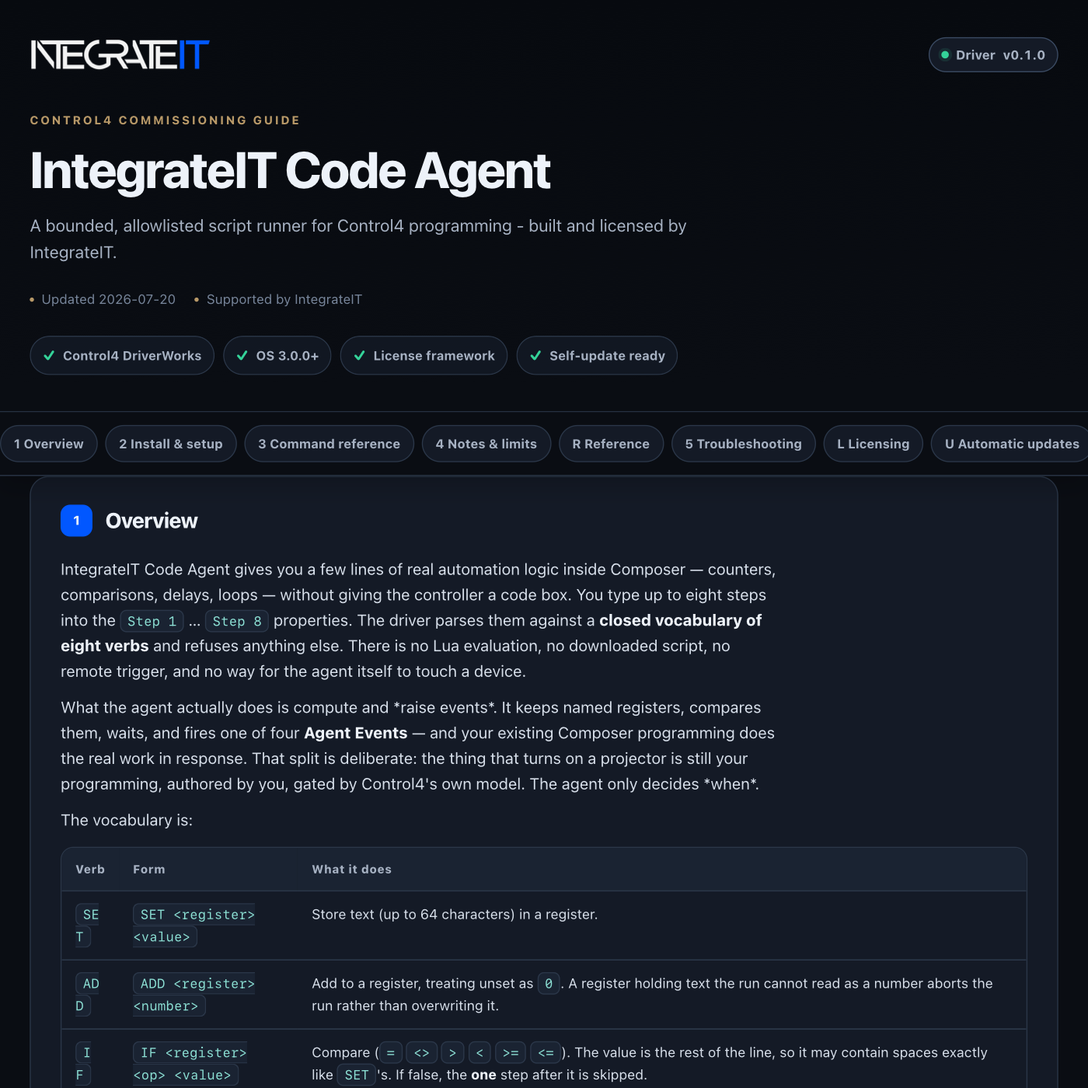
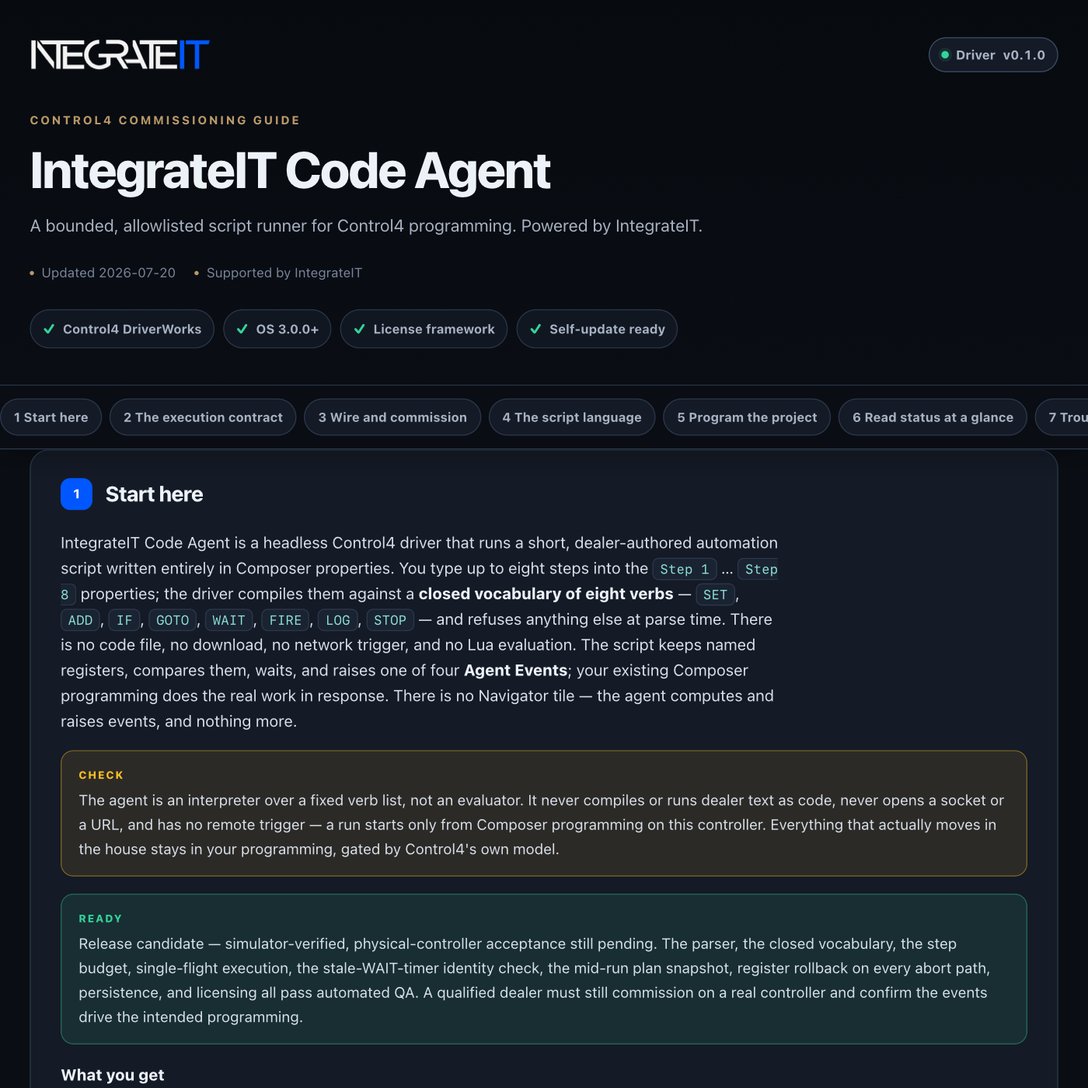
control4: publish driver channel (integrateit_code_agent 0.1.1)

Changed region(s): [[0.0, 0.3686, 1.0, 1.0], [0.0307, 0.215, 0.6143, 0.3379], [0.4914, 0.1843, 0.645, 0.215]]

diff --git a/control4/integrateit_code_agent/documentation.html b/control4/integrateit_code_agent/documentation.html
@@ -179,13 +179,13 @@ td code{white-space:normal}
     <div class="wrap">
       <div class="brandbar">
[1 lines of base64/hex data omitted]
-        <span class="version"><span class="word">Driver</span> v0.1.0</span>
+        <span class="version"><span class="word">Driver</span> v0.1.1</span>
       </div>
       <p class="eyebrow">Control4 commissioning guide</p>
       <h1>IntegrateIT Code Agent</h1>
-      <p class="sub">A bounded, allowlisted script runner for Control4 programming - built and licensed by IntegrateIT.</p>
+      <p class="sub">A bounded, allowlisted script runner for Control4 programming. Powered by IntegrateIT.</p>
       <div class="meta">
-        <span>Updated 2026-07-20</span>
+        <span>Updated 2026-07-26</span>
         <span>Supported by IntegrateIT</span>
       </div>
       <div class="readiness" aria-label="Driver capabilities">
@@ -198,39 +198,52 @@ td code{white-space:normal}
   </header>
 
   <div class="toc-wrap">
-    <nav class="toc wrap" aria-label="Documentation sections"><a href="#overview">1 Overview</a><a href="#install">2 Install &amp; setup</a><a href="#commands">3 Command reference</a><a href="#notes">4 Notes &amp; limits</a><a href="#reference">R Reference</a><a href="#troubleshooting">5 Troubleshooting</a><a href="#licensing">L Licensing</a><a href="#updates">U Automatic updates</a><a href="#changelog">V Version history</a></nav>
+    <nav class="toc wrap" aria-label="Documentation sections"><a href="#overview">1 Start here</a><a href="#boundary">2 The execution contract</a><a href="#setup">3 Wire and commission</a><a href="#language">4 The script language</a><a href="#programming">5 Program the project</a><a href="#status">6 Read status at a glance</a><a href="#troubleshooting">7 Troubleshoot methodically</a><a href="#trust">8 Ownership, privacy, and licensing</a><a href="#reference">R Reference</a><a href="#licensing">L Licensing</a><a href="#updates">U Automatic updates</a><a href="#changelog">V Version history</a></nav>
   </div>
 
   <main class="wrap">
     <section class="card" id="overview" data-card="overview">
-  <h2><span class="n">1</span> Overview</h2>
-  <p>IntegrateIT Code Agent gives you a few lines of real automation logic inside Composer — counters, comparisons, delays, loops — without giving the controller a code box. You type up to eight steps into the <code>Step 1</code> … <code>Step 8</code> properties. The driver parses them against a <b>closed vocabulary of eight verbs</b> and refuses anything else. There is no Lua evaluation, no downloaded script, no remote trigger, and no way for the agent itself to touch a device.</p>
-  <p>What the agent actually does is compute and *raise events*. It keeps named registers, compares them, waits, and fires one of four <b>Agent Events</b> — and your existing Composer programming does the real work in response. That split is deliberate: the thing that turns on a projector is still your programming, authored by you, gated by Control4's own model. The agent only decides *when*.</p>
-  <p>The vocabulary is:</p>
-  <table>
-    <tr><th>Verb</th><th>Form</th><th>What it does</th></tr>
-    <tr><td><code>SET</code></td><td><code>SET &lt;register&gt; &lt;value&gt;</code></td><td>Store text (up to 64 characters) in a register.</td></tr>
-    <tr><td><code>ADD</code></td><td><code>ADD &lt;register&gt; &lt;number&gt;</code></td><td>Add to a register, treating unset as <code>0</code>. A register holding text the run cannot read as a number aborts the run rather than overwriting it.</td></tr>
-    <tr><td><code>IF</code></td><td><code>IF &lt;register&gt; &lt;op&gt; &lt;value&gt;</code></td><td>Compare (<code>=</code> <code>&lt;&gt;</code> <code>&gt;</code> <code>&lt;</code> <code>&gt;=</code> <code>&lt;=</code>). The value is the rest of the line, so it may contain spaces exactly like <code>SET</code>'s. If false, the <b>one</b> step after it is skipped.</td></tr>
-    <tr><td><code>GOTO</code></td><td><code>GOTO &lt;step number&gt;</code></td><td>Jump to another step, by its Step-property number.</td></tr>
-    <tr><td><code>WAIT</code></td><td><code>WAIT &lt;seconds&gt;</code></td><td>Suspend the run, then resume where it left off.</td></tr>
-    <tr><td><code>FIRE</code></td><td><code>FIRE &lt;1-4&gt;</code></td><td>Raise *Agent Event 1…4* for programming to react to.</td></tr>
-    <tr><td><code>LOG</code></td><td><code>LOG &lt;text&gt;</code></td><td>Write a line to the audit log and the Lua output window.</td></tr>
-    <tr><td><code>STOP</code></td><td><code>STOP</code></td><td>End the run successfully.</td></tr>
-  </table>
-  <p>Each verb must be a whole word with a space after it — <code>FIRE1</code> is refused, <code>FIRE 1</code> is the step. Blank lines and lines beginning with <code>#</code> are comments. Numbers compare as numbers when both sides are numeric, otherwise as text; an unset register reads as empty, so a comparison against it is simply false.</p>
+  <h2><span class="n">1</span> Start here</h2>
+  <p>IntegrateIT Code Agent is a headless Control4 driver that runs a short, dealer-authored automation script written entirely in Composer properties. You type up to eight steps into the <code>Step 1</code> … <code>Step 8</code> properties; the driver compiles them against a <b>closed vocabulary of eight verbs</b> — <code>SET</code>, <code>ADD</code>, <code>IF</code>, <code>GOTO</code>, <code>WAIT</code>, <code>FIRE</code>, <code>LOG</code>, <code>STOP</code> — and refuses anything else at parse time. There is no code file, no download, no network trigger, and no Lua evaluation. The script keeps named registers, compares them, waits, and raises one of four <b>Agent Events</b>; your existing Composer programming does the real work in response. There is no Navigator tile — the agent computes and raises events, and nothing more.</p>
+  <div class="note warn">The agent is an interpreter over a fixed verb list, not an evaluator. It never compiles or runs dealer text as code, never opens a socket or a URL, and has no remote trigger — a run starts only from Composer programming on this controller. Everything that actually moves in the house stays in your programming, gated by Control4's own model.</div>
+  <div class="note good">Release candidate — simulator-verified, physical-controller acceptance still pending. The parser, the closed vocabulary, the step budget, single-flight execution, the stale-WAIT-timer identity check, the mid-run plan snapshot, register rollback on every abort path, persistence, and licensing all pass automated QA. A qualified dealer must still commission on a real controller and confirm the events drive the intended programming.</div>
+  <p><b>What you get</b></p>
+  <ul>
+    <li>Eight Composer-authored steps over a closed verb vocabulary — no code files, no downloads</li>
+    <li>Named registers with <code>SET</code>, arithmetic with <code>ADD</code>, and six-operator comparison with <code>IF</code></li>
+    <li><code>GOTO</code> loops made safe by a hard per-run step budget that always terminates</li>
+    <li>Four <code>FIRE</code>-able Agent Events plus Run Started / Completed / Aborted / Script Rejected for programming</li>
+    <li>Fail-closed parsing: one bad step refuses the whole script, so a half-valid program never runs its valid prefix</li>
+    <li>Register rollback on every abort — manual, script edit, budget exhaustion, a bad <code>ADD</code>, or a restart mid-run</li>
+    <li>A rolling audit of the most recent steps and the run outcome in <code>AGENT_LOG</code></li>
+    <li>MAC-locked IntegrateIT licensing, Lenient or Strict</li>
+  </ul>
 </section>
 
-<section class="card" id="install" data-card="install">
-  <h2><span class="n">2</span> Install &amp; setup</h2>
+<section class="card" id="boundary" data-card="boundary">
+  <h2><span class="n">2</span> The execution contract</h2>
+  <p>This driver's whole promise is what it cannot do, so it states it plainly:</p>
+  <ul>
+    <li><b>No code execution.</b> Dealer text is tokenized and matched against the fixed verb list; it is never compiled, <code>load</code>ed, or evaluated. An unrecognized verb is a parse rejection, not a pass-through — a Lua expression like <code>os.execute("id")</code> fails the allowlist exactly like any typo.</li>
+    <li><b>No blast radius.</b> The agent cannot drive a device, open a socket, fetch a URL, or touch the filesystem. Its only outputs are its own registers, its own read-only properties, four Agent Events, and six programming variables. Anything that MOVES is your programming reacting to those events.</li>
+    <li><b>No remote surface.</b> There is no listener, URL handler, or poll. A run begins only when Composer programming — or the Actions tab — calls <b>Run Script</b> on this controller.</li>
+    <li><b>Fail-closed, all-or-nothing.</b> One bad step invalidates the entire script, including the valid steps above it, and <code>Script Status</code> names the first refused step. A run requested against an invalid script finds no plan at all and raises <b>Script Rejected</b>.</li>
+    <li><b>Bounded.</b> <code>GOTO</code> makes loops expressible, so every run carries a hard step budget (<code>Max Steps Per Run</code>, default 64). Skipped steps spend fuel too, so <code>IF</code> + <code>GOTO</code> cannot spin for free. When the budget hits zero the run aborts and rolls back — a controller cannot be wedged by a bad script.</li>
+    <li><b>Reversible.</b> Registers are snapshotted at run start; every abort restores that snapshot, so an aborted run leaves no half-applied state. A completed run keeps its writes; an aborted one does not. Registers update live as each step runs, so a value read mid-run is provisional until the run reaches <code>STOP</code> or the end of the list.</li>
+  </ul>
+</section>
+
+<section class="card" id="setup" data-card="setup">
+  <h2><span class="n">3</span> Wire and commission</h2>
   <ol class="steps">
-    <li>Add the driver to a room. It is headless — no Navigator tile, no connections to bind.</li>
-    <li>Type your steps into <code>Step 1</code> … <code>Step 8</code>, one verb per line, in order.</li>
-    <li>Watch <code>Script Status</code>. It reads <b>Valid - N step(s)</b> when the script compiles, or <b>Invalid - step N: …</b> naming the first step it refused. <b>An invalid script does not partly run.</b> The whole thing is off until it parses.</li>
-    <li>Set <code>Max Steps Per Run</code> — the hard budget for one run. This is what makes a <code>GOTO</code> loop safe: when the budget is spent, the run aborts and rolls back. The default of 64 is generous for an eight-line script; lower it if you are looping deliberately.</li>
-    <li>Set <code>Max Wait (sec)</code> to the longest <code>WAIT</code> you want anyone to be able to author. Scripts asking for longer are rejected when they are typed, not when they run.</li>
-    <li>In Programming, call <b>Run Script</b> on this driver wherever the logic should start, and react to <b>Agent Event 1…4</b>.</li>
-    <li>Optionally enter a <code>License Key</code> (see Licensing) — the driver runs in Lenient mode without one.</li>
+    <li>Add <b>IntegrateIT Code Agent</b> to a room. It is headless — no Navigator tile, no connections to bind.</li>
+    <li>Type your steps into <code>Step 1</code> … <code>Step 8</code>, one verb per line, in order — the verb grammar is <b>The script language</b> immediately below.</li>
+    <li>Watch <code>Script Status</code>. It reads <b>Valid - N step(s)</b> when the script compiles, or <b>Invalid - step N: …</b> naming the first step it refused. An invalid script does not partly run.</li>
+    <li>Set <code>Max Steps Per Run</code> — the hard budget for one run (1–256, default 64). Lower it when you loop deliberately; the default is generous for an eight-line script.</li>
+    <li>Set <code>Max Wait (sec)</code> (1–3600, default 300) to the longest <code>WAIT</code> anyone may author. A longer <code>WAIT</code> is refused when it is typed, not when it runs. Tightening this later re-validates the current script.</li>
+    <li>Choose <code>Persist Registers</code> (register values survive a Director restart only when Yes) and <code>On Script Edit</code> (whether editing a Step mid-run aborts the run or lets it finish against the plan it started with).</li>
+    <li>Optionally enter a <code>License Key</code> — the driver runs in Lenient mode without one (see Licensing).</li>
+    <li>In Programming, call <b>Run Script</b> where the logic should start, and react to <b>Agent Event 1…4</b>. Run it once and watch <code>Run State</code>, <code>Registers</code>, and your event programming react — that is the proof it works.</li>
   </ol>
   <p>A worked example — hold the path lights for two minutes after the last person leaves, but only in the evening:</p>
   <table>
@@ -241,40 +254,89 @@ td code{white-space:normal}
     <tr><td>4</td><td><code>FIRE 2</code></td><td>Programming reacts: all off.</td></tr>
     <tr><td>5</td><td><code>STOP</code></td><td>Done.</td></tr>
   </table>
-  <p><code>Evening</code> gets set by your programming through the <b>Set Register</b> command (<code>REGISTER</code> = <code>Evening</code>, <code>VALUE</code> = <code>1</code>).</p>
+  <p>Your programming sets <code>Evening</code> through the <b>Set Register</b> command (<code>REGISTER</code> = <code>Evening</code>, <code>VALUE</code> = <code>1</code>) before it calls Run Script.</p>
 </section>
 
-<section class="card" id="commands" data-card="commands">
-  <h2><span class="n">3</span> Command reference</h2>
+<section class="card" id="language" data-card="language">
+  <h2><span class="n">4</span> The script language</h2>
+  <p>A step is one whole-word verb, a space, then its arguments. <code>FIRE1</code> is refused; <code>FIRE 1</code> is the step — a token welded to a verb is rejected under its whole name, never quietly split. Blank lines and lines beginning with <code>#</code> are comments: skipped, never errors.</p>
   <table>
-    <tr><th>Action / command</th><th>What it does</th></tr>
-    <tr><td>Run Script (<code>RUN_SCRIPT</code>)</td><td>Run the compiled script from step 1. Refused if a run is already in flight or the script is invalid.</td></tr>
-    <tr><td>Abort Run (<code>ABORT_RUN</code>)</td><td>Stop the run, cancel a pending <code>WAIT</code>, and restore every register to its pre-run value.</td></tr>
-    <tr><td>Set Register (<code>SET_REGISTER</code>)</td><td>Set one register from programming. Params: <code>REGISTER</code>, <code>VALUE</code>. Refused while a run is in flight.</td></tr>
-    <tr><td>Validate Script (<code>VALIDATE_SCRIPT</code>)</td><td>Re-parse and print the verdict. Changes nothing else.</td></tr>
-    <tr><td>Reset Registers (<code>RESET_REGISTERS</code>)</td><td>Empty the register store. Refused while a run is in flight.</td></tr>
-    <tr><td>Print Configuration (<code>PRINT_CONFIG</code>)</td><td>Print the script verdict, budget, registers, and vocabulary to the Lua output window.</td></tr>
+    <tr><th>Verb</th><th>Form</th><th>What it does</th></tr>
+    <tr><td><code>SET</code></td><td><code>SET &lt;register&gt; &lt;value&gt;</code></td><td>Store text in a register. The value is the rest of the line, up to 64 printable characters.</td></tr>
+    <tr><td><code>ADD</code></td><td><code>ADD &lt;register&gt; &lt;number&gt;</code></td><td>Add a finite number to a register. An unset register reads as <code>0</code>; a register holding text the sum cannot parse aborts the run rather than overwriting it.</td></tr>
+    <tr><td><code>IF</code></td><td><code>IF &lt;register&gt; &lt;op&gt; &lt;value&gt;</code></td><td>Compare with <code>=</code> <code>&lt;&gt;</code> <code>&gt;</code> <code>&lt;</code> <code>&gt;=</code> <code>&lt;=</code>. The value is the rest of the line, exactly like <code>SET</code>. When the test is false, the <b>one</b> step after it is skipped.</td></tr>
+    <tr><td><code>GOTO</code></td><td><code>GOTO &lt;1-8&gt;</code></td><td>Jump to another step by its Step-property number. A <code>GOTO</code> into an empty step is refused at parse time.</td></tr>
+    <tr><td><code>WAIT</code></td><td><code>WAIT &lt;seconds&gt;</code></td><td>Suspend the run for a whole number of seconds, 1 to <code>Max Wait</code> (default 300), then resume where it left off.</td></tr>
+    <tr><td><code>FIRE</code></td><td><code>FIRE &lt;1-4&gt;</code></td><td>Raise Agent Event 1 through 4 for programming to react to.</td></tr>
+    <tr><td><code>LOG</code></td><td><code>LOG &lt;text&gt;</code></td><td>Write 1 to 120 printable characters to the audit log and the Lua output window.</td></tr>
+    <tr><td><code>STOP</code></td><td><code>STOP</code></td><td>End the run successfully. Takes no argument.</td></tr>
   </table>
-  <p><b>Events:</b> *Run Started*, *Run Completed*, *Run Aborted*, *Script Rejected*, *Agent Event 1…4*. <b>Variables:</b> <code>AGENT_RUN_STATE</code>, <code>AGENT_RUNNING</code>, <code>AGENT_STEPS_RUN</code>, <code>AGENT_REGISTERS</code>, <code>AGENT_LOG</code>, <code>AGENT_LAST_ERROR</code>.</p>
+  <p>Register names are identifiers — a letter followed by letters, digits, or underscores, up to 16 characters, with no dots, brackets, or spaces. Comparisons run as numbers when both sides parse as numbers, otherwise as text; an unset register reads as empty text, so a comparison against it is always defined and never crashes the run. Note that <code>ADD</code> reads an unset register as <code>0</code> while <code>IF</code> reads it as empty — the two verbs read "unset" differently on purpose. A non-finite <code>ADD</code> amount (<code>1e400</code>) is refused at parse time, and a sum that accumulates to infinity aborts the run rather than parking a poisoned value.</p>
 </section>
 
-<section class="card" id="notes" data-card="notes">
-  <h2><span class="n">4</span> Notes &amp; limits</h2>
+<section class="card" id="programming" data-card="programming">
+  <h2><span class="n">5</span> Program the project</h2>
+  <p>The Actions tab exposes <b>Validate Script</b>, <b>Run Script</b>, <b>Abort Run</b>, <b>Reset Registers</b>, and <b>Print Configuration</b>. From programming you also get <b>Run Script</b>, <b>Abort Run</b>, and <b>Set Register</b> (params <code>REGISTER</code>, <code>VALUE</code>; refused while a run is in flight). Hang your logic off the events:</p>
   <ul>
-    <li><b>Nothing runs unless everything parses.</b> One bad step invalidates the whole script — including the valid steps above it. This is on purpose: a half-executed automation is worse than one that plainly refuses.</li>
-    <li><b>Every run is bounded.</b> <code>Max Steps Per Run</code> is spent on skipped steps too, so <code>IF</code> + <code>GOTO</code> cannot spin for free. Exhausting it aborts the run and rolls the registers back.</li>
-    <li><b>One run at a time.</b> A second Run Script while one is in flight is refused and logged; it does not queue.</li>
-    <li><b>Editing a step mid-run</b> is governed by <code>On Script Edit</code>. *Abort Running Script* (the default) stops and rolls back. *Finish Current Run* lets the in-flight run complete against the plan it started with — your edit takes effect on the next run, never on the one already going.</li>
-    <li><b>Abort rolls back; completion does not.</b> Registers written by a run that reached <code>STOP</code> (or ran off the end) are kept. Registers written by a run that was aborted — manually, by an edit, by the budget, or by an <code>ADD</code> it could not compute — are restored to their pre-run values.</li>
-    <li><b>A run never survives a Director restart.</b> The controller comes back Idle. Register *values* come back only if <code>Persist Registers</code> is Yes; with it set to No the cache is actively cleared, so turning it on later cannot resurrect stale values.</li>
-    <li>**A restart *mid-run* rolls back too.** If the controller dies while a run is in flight, that run gets the same treatment as any other abort: it comes back holding the registers as they were *before* the run, not half of it. <code>Last Run</code> and <code>AGENT_LAST_ERROR</code> say the run was interrupted.</li>
-    <li><b><code>ADD</code> is numeric only.</b> It reads an unset register as <code>0</code>, but a register holding text it cannot read as a number aborts the run instead of silently replacing that text with a number. A sum that overflows to infinity aborts for the same reason.</li>
-    <li><b>The agent cannot drive anything itself.</b> No device control, no sockets, no URLs, no filesystem, no Lua evaluation. If you need it to move something, react to its events in programming.</li>
-    <li><code>AGENT_LOG</code> holds a rolling window of the most recent steps, not a permanent history. Turn on <code>Debug Mode → Print</code> to see every step live in the Lua output window.</li>
+    <li><b>When Agent Event 1 fires → dim the path lights.</b> A <code>FIRE 1</code> step is the driver-to-project hand-off; author the actual device control here.</li>
+    <li><b>When Run Aborted fires → notify or re-arm.</b> The run hit its budget, a bad <code>ADD</code>, a manual abort, or a mid-run edit; the registers are already back to their pre-run values.</li>
+    <li><b>Before Run Script → Set Register <code>Evening</code> = <code>1</code>.</b> Seed a register from project state, then start the run so its <code>IF</code> reads real conditions.</li>
   </ul>
+  <table>
+    <tr><th>Event</th><th>Fires when</th></tr>
+    <tr><td>Run Started</td><td>A run began</td></tr>
+    <tr><td>Run Completed</td><td>The script reached <code>STOP</code> or ran off the end of the list</td></tr>
+    <tr><td>Run Aborted</td><td>The run was aborted (manual, edit, budget, or a bad <code>ADD</code>) and registers rolled back</td></tr>
+    <tr><td>Script Rejected</td><td>A run was requested while the script does not parse; nothing executed</td></tr>
+    <tr><td>Agent Event 1…4</td><td>A <code>FIRE 1</code>…<code>FIRE 4</code> step ran</td></tr>
+  </table>
+  <table>
+    <tr><th>Variable</th><th>Type</th><th>Meaning</th></tr>
+    <tr><td><code>AGENT_RUN_STATE</code></td><td>STRING</td><td>Idle, Running, Waiting, Completed, Aborted, or Rejected</td></tr>
+    <tr><td><code>AGENT_RUNNING</code></td><td>BOOL</td><td>True while Running or Waiting</td></tr>
+    <tr><td><code>AGENT_STEPS_RUN</code></td><td>NUMBER</td><td>Steps the last run advanced through — an <code>IF</code>-skipped step counts, a comment does not</td></tr>
+    <tr><td><code>AGENT_REGISTERS</code></td><td>STRING</td><td>Current register values, in name order</td></tr>
+    <tr><td><code>AGENT_LOG</code></td><td>STRING</td><td>Rolling audit of the most recent steps and the run outcome</td></tr>
+    <tr><td><code>AGENT_LAST_ERROR</code></td><td>STRING</td><td>The reason for the last rejection or abort, or empty</td></tr>
+  </table>
+</section>
+
+<section class="card" id="status" data-card="status">
+  <h2><span class="n">6</span> Read status at a glance</h2>
+  <table>
+    <tr><th>Property</th><th>Healthy result</th><th>What it tells you</th></tr>
+    <tr><td><code>Script Status</code></td><td><code>Valid - N step(s)</code></td><td><code>Invalid - step N: …</code> names the first refused step; <code>No script</code> means every Step is blank</td></tr>
+    <tr><td><code>Run State</code></td><td><code>Idle</code> between runs</td><td>Running / Waiting during a run; Completed, Aborted, or Rejected after</td></tr>
+    <tr><td><code>Last Run</code></td><td>Outcome, step count, timestamp</td><td>An <code>Aborted …</code> line carries the reason; after a mid-run restart it reads interrupted</td></tr>
+    <tr><td><code>Registers</code></td><td>The names and values you set</td><td>Empty after a rollback, a reset, or a boot without persistence</td></tr>
+  </table>
+  <p><code>AGENT_RUNNING</code> is the variable to gate automation on — it is true only while a run is Running or Waiting. Only a completed run keeps its register writes, so treat any value read during a run as provisional until Run Completed fires. <b>Print Configuration</b> writes the script verdict, budget, WAIT cap, edit policy, registers, and vocabulary to the Lua output window; it never runs the script and never prints the license key.</p>
+</section>
+
+<section class="card" id="troubleshooting" data-card="troubleshooting">
+  <h2><span class="n">7</span> Troubleshoot methodically</h2>
+  <table>
+    <tr><th>Symptom</th><th>Likely cause</th><th>Fix</th></tr>
+    <tr><td>Nothing responds to Run Script</td><td>Invalid script, a run already in flight, or Strict + unlicensed</td><td>Read <code>Script Status</code>, <code>Run State</code>, and <code>License Status</code>; a refused run also writes the reason to <code>Status</code></td></tr>
+    <tr><td><code>Script Status</code> says Invalid</td><td>A verb, argument, or <code>GOTO</code> target the parser refused</td><td>Read the message — it names the step and the reason; the script recompiles as you type</td></tr>
+    <tr><td>A <code>GOTO</code> script aborts every time</td><td>The loop is longer than <code>Max Steps Per Run</code></td><td>Raise the budget, or add an <code>IF</code> that reaches a <code>STOP</code></td></tr>
+    <tr><td>A valid script went Invalid on its own</td><td><code>Max Wait (sec)</code> was lowered below a <code>WAIT</code> in the script</td><td>Raise the cap or shorten the <code>WAIT</code>; the bound is enforced at parse time</td></tr>
+    <tr><td>A script edit did not take effect</td><td><code>On Script Edit</code> is *Finish Current Run* and a run is in flight</td><td>Wait for it, or Abort Run, then run again</td></tr>
+    <tr><td>Registers reverted unexpectedly</td><td>The run aborted, so it rolled back</td><td>Read <code>Last Run</code> and <code>AGENT_LAST_ERROR</code> for which abort it was</td></tr>
+    <tr><td>Registers empty after a reboot</td><td><code>Persist Registers</code> is No, or a run was interrupted mid-flight</td><td>Set it to Yes to keep values across a restart; a restart mid-run always rolls back</td></tr>
+    <tr><td><code>ADD</code> aborts the run</td><td>The register holds text, or the sum overflowed to infinity</td><td>Use a numeric register, or seed it with <code>SET &lt;reg&gt; 0</code> first</td></tr>
+  </table>
+  <div class="note">Turn on <code>Debug Mode → Print</code> to watch every parse verdict and every executed step live in the Lua output window. Escalate to support@integrateit.tech · (913) 804-7575 with the <code>AGENT_LOG</code> contents.</div>
+</section>
+
+<section class="card" id="trust" data-card="trust">
+  <h2><span class="n">8</span> Ownership, privacy, and licensing</h2>
+  <p>This package is an original IntegrateIT driver. It bundles no other vendor's runtime, source, brand assets, or license. Driver engineering, Control4 integration, documentation, QA, licensing, updates, and support are provided by IntegrateIT.</p>
+  <p>Nothing the agent does leaves the controller. There is no network surface — no socket, no URL, no telemetry — so your script text, register values, and audit log stay on the controller. The only outbound traffic is the shared IntegrateIT license and update services, which use the controller identity, driver slug, version, configured license key, and update channel as documented in the reference below; the license key is never written to the audit log or printed by any diagnostic.</p>
+  <p>Lenient mode allows commissioning without an activated key and keeps <code>License Status</code> visible. Strict mode blocks <b>Run Script</b>, <b>Abort Run</b>, <b>Reset Registers</b>, and <b>Set Register</b> until the Ops Portal has minted and validated a key for this controller; <b>Validate Script</b> and <b>Print Configuration</b> stay available either way, because inspecting a script changes nothing. Installing this package does not itself mint or activate a controller license.</p>
 <section class="card" id="reference" data-card="reference">
   <h2><span class="n">R</span> Reference</h2>
-  <p>Generated from the driver manifest at build time — always matches this build (v0.1.0).</p>
+  <p>Generated from the driver manifest at build time — always matches this build (v0.1.1).</p>
   <h3>Properties</h3>
   <table>
     <tr><th>Property</th><th>Type</th><th>Default</th><th>Description</th></tr>
@@ -345,22 +407,6 @@ td code{white-space:normal}
   </table>
 </section>
 </section>
-
-<section class="card" id="troubleshooting" data-card="troubleshooting">
-  <h2><span class="n">5</span> Troubleshooting</h2>
-  <table>
-    <tr><th>Symptom</th><th>Likely cause</th><th>Fix</th></tr>
-    <tr><td><code>Script Status</code> says Invalid</td><td>A verb, argument, or <code>GOTO</code> target the parser refused</td><td>Read the message — it names the step number and the reason. Fix that step; the script recompiles as you type.</td></tr>
-    <tr><td>Run Script does nothing</td><td>Invalid script, or a run already in flight</td><td>Check <code>Script Status</code> and <code>Run State</code>. A refused run also writes the reason to <code>Status</code>.</td></tr>
-    <tr><td>A <code>GOTO</code> script aborts every time</td><td>The loop is longer than <code>Max Steps Per Run</code></td><td>Raise the budget, or add an <code>IF</code> that reaches a <code>STOP</code>.</td></tr>
-    <tr><td>A script edit did not take effect</td><td><code>On Script Edit</code> is *Finish Current Run* and a run is in flight</td><td>Wait for it, or Abort Run, then run again.</td></tr>
-    <tr><td>A valid script went Invalid on its own</td><td><code>Max Wait (sec)</code> was lowered below a <code>WAIT</code> in the script</td><td>Raise the cap, or shorten the <code>WAIT</code>. Bounds are enforced at parse time.</td></tr>
-    <tr><td>Registers empty after a reboot</td><td><code>Persist Registers</code> is No</td><td>Set it to Yes if the values must survive a Director restart.</td></tr>
-    <tr><td>Registers reverted unexpectedly</td><td>The run was aborted, so it rolled back</td><td>Check <code>Last Run</code> and <code>AGENT_LAST_ERROR</code> for which abort it was.</td></tr>
-    <tr><td>Nothing happens at all</td><td>Strict enforcement + unlicensed</td><td>Check <code>License Status</code>; Lenient mode keeps control enabled without a key.</td></tr>
-  </table>
-  <div class="note">Turn on <code>Debug Mode → Print</code> to watch every parse verdict and every executed step in the Lua output window.</div>
-</section>
 <section class="card" id="licensing" data-card="licensing">
   <h2><span class="n">L</span> Licensing</h2>
   <p>This driver is licensed <b>per controller</b>. Each license key locks to one controller's
@@ -408,7 +454,9 @@ td code{white-space:normal}
     <section class="card" id="changelog" data-card="changelog">
   <h2><span class="n">V</span> Version history</h2>
   <div class="chg">
-    <div class="rel"><b>v0.1.0</b> <span class="pill green">current</span><span class="d">2026-07-20</span>
+    <div class="rel"><b>v0.1.1</b> <span class="pill green">current</span><span class="d">2026-07-26</span>
+      <ul><li>Documentation rebuilt to the IntegrateIT commissioning-guide standard: uniform sections, honest contracts, verified claim-by-claim against the code.</li><li>**Parser: a verb must be a whole word.** `FIRE1` used to split into `FIRE 1` and run. The allowlist claims a closed vocabulary, so a token welded to a verb is now refused under its whole name rather than quietly reinterpreted.</li><li>**Parser: `IF` and `SET` now share one grammar.** `IF` demanded a single-token value while `SET` accepted the rest of the line, so `SET Mode Movie Night` stored a value no `IF` could ever name — writable but permanently untestable.</li><li>**`ADD` no longer destroys a text register.** `tonumber(x) or 0` turned `Mode=Movie` into `Mode=5`. A non-numeric register now aborts the run and rolls back, which is what T8 promised all along.</li><li>**`ADD` refuses non-finite results.** `1e400` is rejected at parse time; a sum that accumulates to infinity aborts the run. `inf`/`nan` compare false against everything and no literal can clear them, so one could permanently poison a register.</li><li>**T8 now covers a restart mid-run.** Registers were committed to PersistData as each step ran, so a controller that died mid-run came back holding half an unfinished run's writes. The pre-run snapshot is now parked for the life of the run and restored on boot if the run never reached an ending.</li></ul></div>
+    <div class="rel"><b>v0.1.0</b><span class="d">2026-07-20</span>
       <ul><li>Initial release candidate. A bounded scripted-action runner: eight Composer-authored steps over a closed verb vocabulary (SET, ADD, IF, GOTO, WAIT, FIRE, LOG, STOP), compiled by an interpreter that never evaluates dealer text.</li><li>Safety rails, each with a regression test: fail-closed all-or-nothing parsing, a hard per-run step budget that terminates GOTO loops, single-flight execution, a stale-WAIT-timer identity check, a mid-run plan snapshot so a live script edit cannot mutate a running program, and register rollback on every abort path.</li><li>Outputs are events and variables only — Run Started / Completed / Aborted / Script Rejected plus four Agent Events, with a rolling audit log in AGENT_LOG. The agent drives no devices, opens no sockets, and has no network trigger surface.</li><li>Registers optionally persist across a Director restart; a run in flight never does.</li></ul></div>
   </div>
 </section>

diff --git a/control4/integrateit_code_agent/CHANGELOG.md b/control4/integrateit_code_agent/CHANGELOG.md
@@ -1,5 +1,8 @@
 # Changelog — IntegrateIT Code Agent
 
+## [0.1.1] - 2026-07-26
+- Documentation rebuilt to the IntegrateIT commissioning-guide standard: uniform sections, honest contracts, verified claim-by-claim against the code.
+
 ## [Unreleased]
 Adversarial review of the 0.1.0 candidate. Five defects, each now covered by a regression test.
 - **Parser: a verb must be a whole word.** `FIRE1` used to split into `FIRE 1` and run. The allowlist claims a closed vocabulary, so a token welded to a verb is now refused under its whole name rather than quietly reinterpreted.
